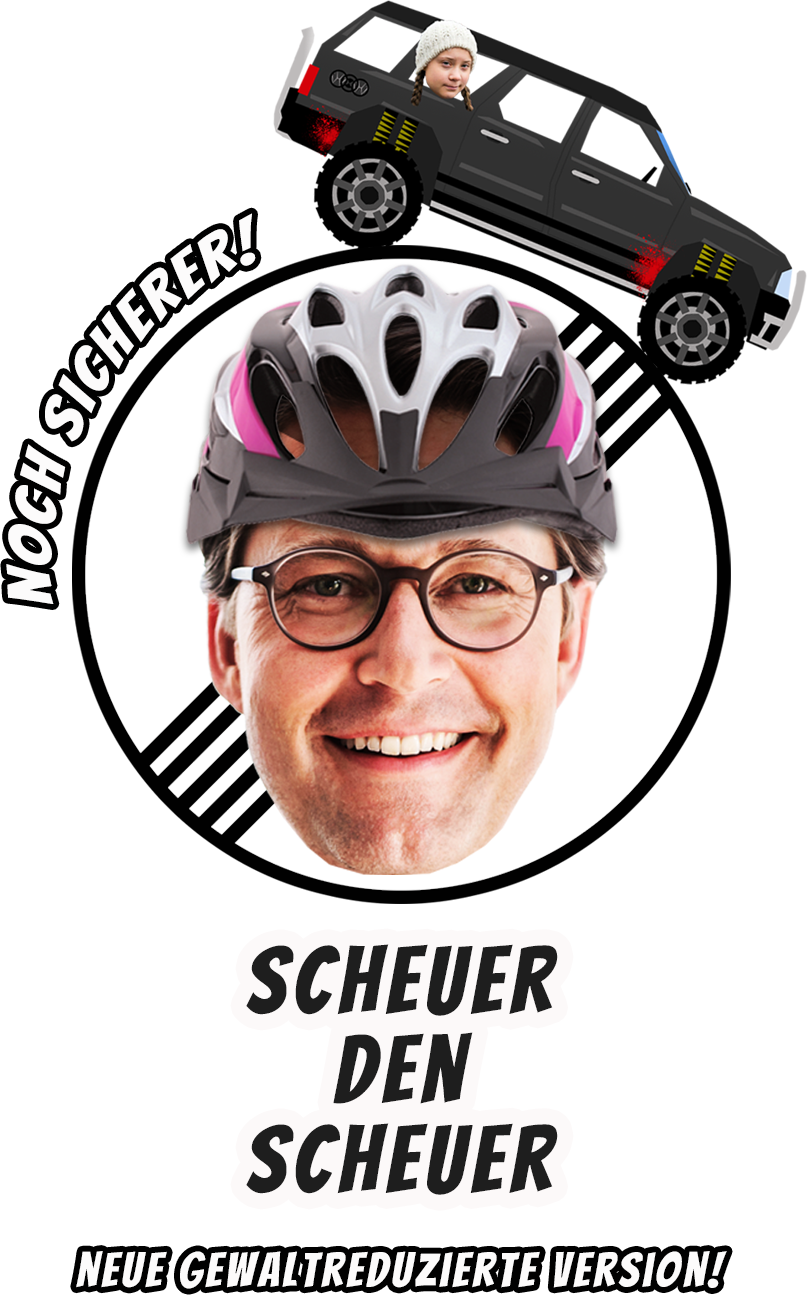
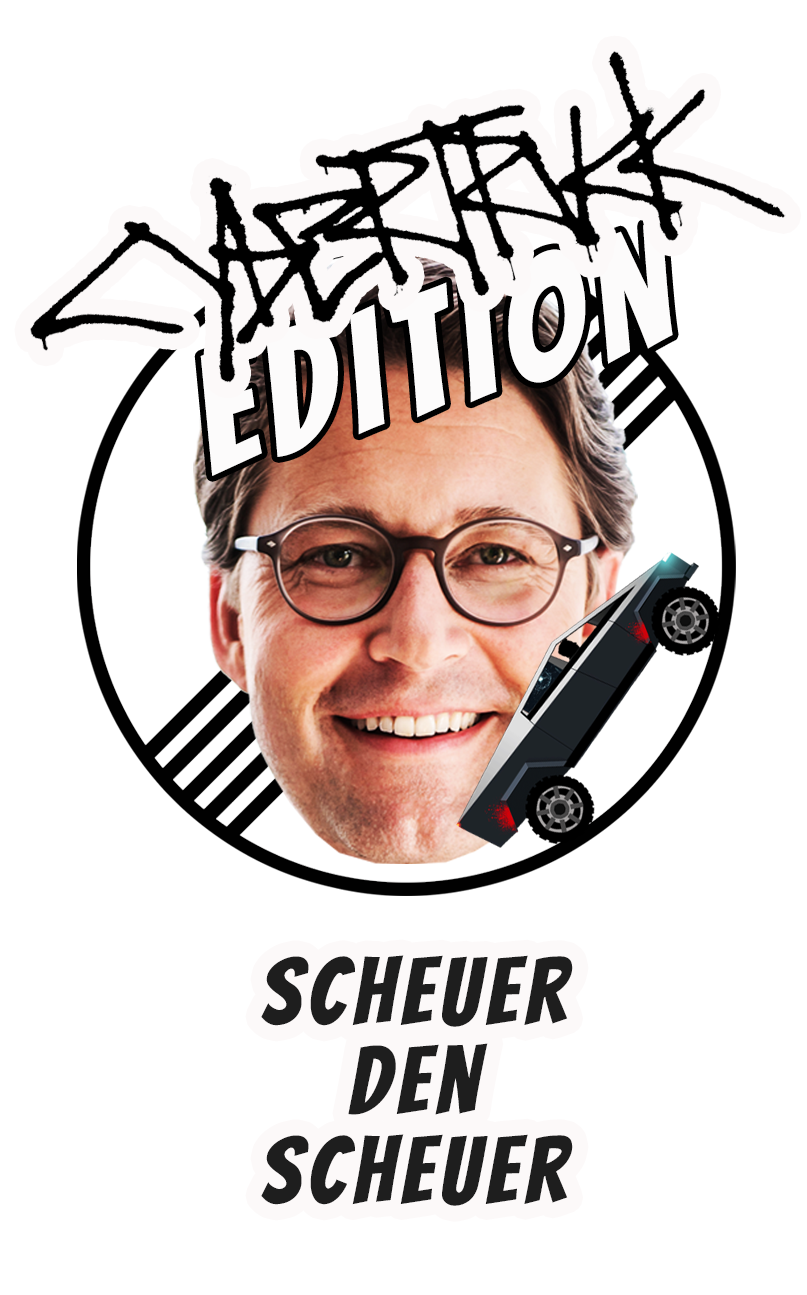
Integrated cybertruck assets

diff --git a/src/app/counterpart.class.ts b/src/app/counterpart.class.ts
@@ -25,7 +25,7 @@ export enum HitStatus {
 }
 
 export class HitEvent {
-    public constructor(public sender: Counterpart, public hitStatus: HitStatus) {}
+    public constructor(public sender: Counterpart, public hitStatus: HitStatus) { }
 }
 
 export class Counterpart {
@@ -49,7 +49,7 @@ export class Counterpart {
 
     @Output() wasHit = new EventEmitter();
 
-    public constructor(ticker: PIXI.ticker.Ticker, x: number, y: number, scaleFactor: number, textStyle: TextStyle) {
+    public constructor(ticker: PIXI.ticker.Ticker, index: number, x: number, y: number, scaleFactor: number, textStyle: TextStyle) {
         ticker.add(this.update.bind(this));
         this.state = CounterpartStates.HiddenState;
 
@@ -74,24 +74,112 @@ export class Counterpart {
 
         this.mask = new PIXI.Graphics();
         this.mask.beginFill(0xFFFFFF, 1);
-        this.mask.drawRect(
-            this.sprite.x - this.sprite.width / 2,
-            this.sprite.y - this.sprite.height / 2 - 200,
-            this.sprite.width,
-            this.sprite.height + 200
-        );
+        if (index == 0) {
+            this.mask.drawPolygon(
+                [
+                    new Point(
+                        this.sprite.x - this.sprite.width / 2,
+                        this.sprite.y - this.sprite.height / 2 - 200
+                    ),
+                    new Point(
+                        this.sprite.x + this.sprite.width / 2,
+                        this.sprite.y - this.sprite.height / 2 - 200
+                    ),
+                    new Point(
+                        this.sprite.x + this.sprite.width / 2,
+                        this.sprite.y + 150 * scaleFactor
+                    ),
+                    new Point(
+                        this.sprite.x - this.sprite.width / 2,
+                        this.sprite.y + 200 * scaleFactor
+                    )                  
+                ]
+            );
+        }
+
+        if (index == 1) {
+            this.mask.drawPolygon(
+                [
+                    new Point(
+                        this.sprite.x - this.sprite.width / 2,
+                        this.sprite.y - this.sprite.height / 2 - 200
+                    ),
+                    new Point(
+                        this.sprite.x + this.sprite.width / 2,
+                        this.sprite.y - this.sprite.height / 2 - 200
+                    ),
+                    new Point(
+                        this.sprite.x + this.sprite.width / 2,
+                        this.sprite.y + 105 * scaleFactor
+                    ),
+                    new Point(
+                        this.sprite.x - this.sprite.width / 2,
+                        this.sprite.y + 155 * scaleFactor
+                    )                  
+                ]
+            );   
+        }        
+
+        if (index == 2) {
+            this.mask.drawPolygon(
+                [
+                    new Point(
+                        this.sprite.x - this.sprite.width / 2,
+                        this.sprite.y - this.sprite.height / 2 - 200
+                    ),
+                    new Point(
+                        this.sprite.x + this.sprite.width / 2,
+                        this.sprite.y - this.sprite.height / 2 - 200
+                    ),
+                    new Point(
+                        this.sprite.x + this.sprite.width / 2,
+                        this.sprite.y + 215 * scaleFactor
+                    ),
+                    new Point(
+                        this.sprite.x - this.sprite.width / 2,
+                        this.sprite.y + 185 * scaleFactor
+                    )                  
+                ]
+            );   
+        }           
+
+        if (index == 3) {
+            this.mask.drawPolygon(
+                [
+                    new Point(
+                        this.sprite.x - this.sprite.width / 2,
+                        this.sprite.y - this.sprite.height / 2 - 200
+                    ),
+                    new Point(
+                        this.sprite.x + this.sprite.width / 2,
+                        this.sprite.y - this.sprite.height / 2 - 200
+                    ),
+                    new Point(
+                        this.sprite.x + this.sprite.width / 2,
+                        this.sprite.y + 255 * scaleFactor
+                    ),
+                    new Point(
+                        this.sprite.x - this.sprite.width / 2,
+                        this.sprite.y + 225 * scaleFactor
+                    )                  
+                ]
+            );   
+        }     
+
+
+
 
         this.punchCoronaSprite = new PIXI.Sprite(PIXI.loader.resources['punchCorona'].texture);
         this.punchCoronaSprite.x = x;
         this.punchCoronaSprite.y = y - 100 * scaleFactor;
         this.punchCoronaSprite.scale.x *= scaleFactor;
         this.punchCoronaSprite.scale.y *= scaleFactor;
-        this.punchCoronaSprite.anchor.set(0.5);   
-        this.punchCoronaSprite.visible = false;     
-        this.container.addChild(this.punchCoronaSprite);  
+        this.punchCoronaSprite.anchor.set(0.5);
+        this.punchCoronaSprite.visible = false;
+        this.container.addChild(this.punchCoronaSprite);
 
-        
-        let holeContainer = new PIXI.Container();   
+
+        let holeContainer = new PIXI.Container();
         holeContainer.interactive = true;
         holeContainer.mask = this.mask;
         holeContainer.addChild(this.sprite);
@@ -182,7 +270,7 @@ export class Counterpart {
         let prefix = '';
         if (score > 0) {
             prefix = '+';
-        }          
+        }
         this.scoreText.text = prefix + score.toString();
         this.scoreText.x = this.sprite.x - this.scoreText.width / 2;
         this.scoreText.y = this.sprite.y - this.sprite.height + 20;

diff --git a/src/app/app.component.ts b/src/app/app.component.ts
@@ -70,7 +70,7 @@ export class AppComponent implements OnInit {
 
   public gameState: GameStates;
 
-  public readonly version = '0.0.35'
+  public readonly version = '0.0.40'
   private referenceWidth: number;
   private relStreetHeight: number;
   private progressText: Text;
@@ -343,6 +343,7 @@ export class AppComponent implements OnInit {
 
       let c = new Counterpart(
         this.app.ticker,
+        i,
         position.x,
         position.y,
         scaleFactor,
@@ -647,7 +648,7 @@ export class AppComponent implements OnInit {
     this.rearWheelSprite.scale.y *= scaleFactor;
 
     this.rearWheelSprite.position.set(
-      this.app.renderer.view.width * 0.249,
+      this.app.renderer.view.width * 0.22,
       this.app.screen.height - this.rearWheelSprite.height / 2
       //- this.relStreetHeight * this.app.screen.height // street offset
     );
@@ -791,7 +792,7 @@ export class AppComponent implements OnInit {
   }
 
   updateRide(delta: number) {
-    this.carSprite.rotation = Math.sin(this.stateTime / 2) / 320 * this.speed;
+    this.carSprite.rotation = Math.sin(this.stateTime / 2) / 320;
     this.frontWheelSprite.rotation += 0.05 * delta * this.speed;
     this.rearWheelSprite.rotation += 0.05 * delta * this.speed;
 
